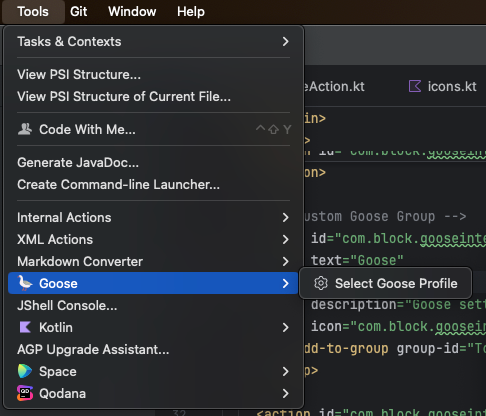
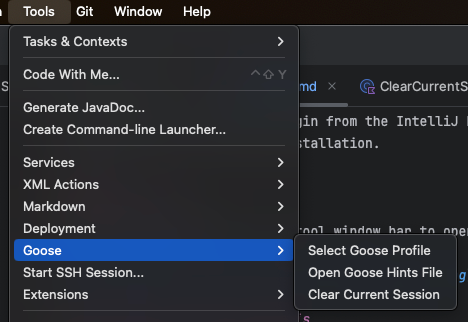
Updated README.md

Changed region(s): [[0.0, 0.0, 1.0, 1.0], [0.7479, 0.1863, 1.0, 0.3106], [0.9274, 0.4969, 0.9573, 0.528]]

diff --git a/README.md b/README.md
@@ -1,64 +1,75 @@
 # Goose IntelliJ Plugin
 
 ## Overview
-Goose IntelliJ Plugin is designed to integrate the Goose AI assistant into the IntelliJ platform, providing developers with smart coding assistance and interactive terminal support.
+The Goose IntelliJ Plugin seamlessly integrates the Goose AI assistant into the IntelliJ platform, enhancing developers' workflow with intelligent coding assistance and terminal capabilities.
 
 ## Features
-- **Smart Code Analysis**: Select code and get insights from the Goose AI.
-- **Interactive Terminal**: Integrated terminal with Goose AI session support.
-- **File and Directory Information**: Ask Goose about specific files or directories within your project.
-- **Profile Selection**: Select and manage Goose AI profiles within IntelliJ.
-- **Customizable Settings**: Configure Goose AI settings and preferences.
-- **Dark Mode Support**: Compatible with IntelliJ's dark theme.
-- **Session Persistence**: Saves and restores Goose AI sessions.
+- **Smart Code Analysis**: Easily highlight code to receive sophisticated insights from Goose AI.
+- **Interactive Terminal**: The plugin provides a terminal with Goose AI support, enabling interactive sessions directly within IntelliJ.
+- **Support for .goosehints**: Now processes .goosehints files for extended configuration capabilities.
+- **Session Management**: Improved session persistence, saving and restoring sessions, plus the ability to clear current sessions.
+- **Integrated Shell Actions**: Restart shell functionalities available directly in the UI.
+- **Profile Management Enhancements**: Easier management and selection of Goose AI profiles.
+- **Dark Mode Support**: Fully compatible with IntelliJ's dark theme.
+- **Inline Chat with Hotkey**: Quickly bring up a chat window inline using a customizable hotkey (option+G/ alt+G by default), facilitating rapid interaction with Goose AI during coding.
 
 ## Installation
-1. Download the plugin from the IntelliJ Plugin Marketplace.
-2. Install the plugin through IntelliJ IDEA by navigating to `Settings -> Plugins -> Install Plugin from Disk`.
-3. Restart IntelliJ IDEA to activate the plugin.
+1. Download and install the plugin from the IntelliJ Plugin Marketplace.
+2Restart IntelliJ IDEA after installation.
 
 ## Usage
-### Opening the Goose Terminal
-To open the Goose Terminal, click on the Goose icon in the tool window bar.
+### Goose Terminal
+Click on the Goose icon in the tool window bar to open the Goose Terminal.
 
 ![Goose Terminal Icon](images/goose_terminal_icon.png)  
 
-### Sending Code to Goose
-1. Select the code you want to analyze.
-2. Right-click and select `Ask Goose To Explain Selection`.
-3. View the analysis results in the Goose Terminal.
+### Using Goose for Code Analysis
+1. Highlight the desired code segment.
+2. Right-click and select `Ask Goose To ...`, or use the ALT+G hotkey.
+3. Provide your inquiry in the inline chat window.
+4. Review the results produced by Goose AI in the integrated terminal.
 
-![Send to Goose](images/send_to_goose.png)  
+![Ask Goose in Editor Menu](images/ask_in_editor_menu.png)  
+![Ask Goose in Editor](images/ask_in_editor.png)
 
-### Asking Goose About a File or Directory
-1. Right-click on a file or directory in the Project view.
-2. Select `Ask Goose to Explain This File`.
-3. Goose will provide information about the selected item in the terminal.
+### Inquiring About Files or Directories
+1. Right-click any file or directory within Project view.
+2. Choose `Ask Goose To ...`.
+3. Provide your inquiry in a dialog box.
+4. Information will be provided in the terminal window.
 
-![Ask Goose About File](images/ask_goose_about_file.png)  
+![Inquiry on File Menu](images/inquiry_on_file_menu.png)  
+![Inquiry on File](images/inquiry_on_file.png)  
 
-### Selecting a Goose Profile
-1. Navigate to the `Goose` menu in the Tools menu.
-2. Select `Select Goose Profile`.
+### Managing Goose Profiles
+1. Access the `Goose` menu within the Tools menu.
+2. Opt for `Profile Management`.
 
-![Select Goose Profile](images/select_goose_profile_menu.png)
-3. Choose or add a new profile from the dialog that appears.
+![Goose Profile Management Menu](images/select_goose_profile_menu.png)  
+3. The profile dialog allows selection or creation of a new profile.
 
-![Select Goose Profile](images/select_goose_profile.png)  
+![Profile Management Dialog](images/select_goose_profile.png)  
+
+### Clear Current Session
+Clear your current session easily through the new session management action and restart with new settings as needed.
+![Goose Profile Management Menu](images/select_goose_profile_menu.png)
+
+### Restart Shell Action
+Sometimes your goose shell can get stuck or you may want to restart it for other reasons. You can now do this directly from the UI.
+![Restart Shell Action](images/restart_shell_action.png)
 
 ## Development
-### Prerequisites
-- IntelliJ IDEA 2020.1 or later
-- Java SDK 8 or later
+### Required Environment
+- IntelliJ IDEA version 2020.1 or newer
+- Java SDK version 8 or above
 
-### Build and Run from Source
-1. Clone the repository.
-2. Open the project in IntelliJ IDEA.
-3. Click `Run` to build and start the plugin.
+### Building From Source
+1. Clone the repository to your local machine.
+2. Open the project using IntelliJ IDEA.
+3. Use the `Run` option to build and launch the plugin.
 
 ## Contributing
-We welcome contributions! Please open an issue or submit a pull request for any changes.<br>
-For major changes, please open an issue first to discuss what you would like to change.
+We appreciate and welcome contributions. Feel free to open issues or submit pull requests. For substantial changes, discuss your proposition in an issue first.
 
 ## License
-This project is licensed under the MIT License. See the [LICENSE](LICENSE) file for details.
+This plugin is distributed under the MIT License. See the [LICENSE](LICENSE) file for further licensing details.
